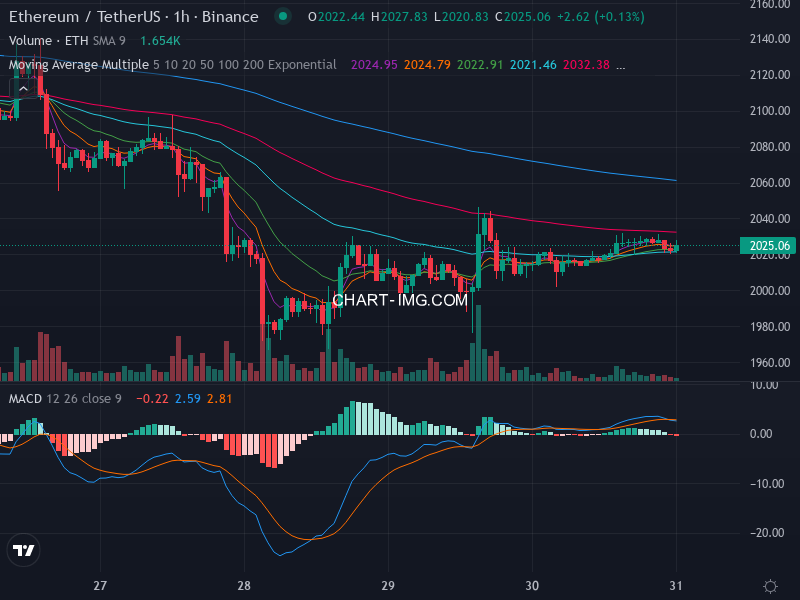
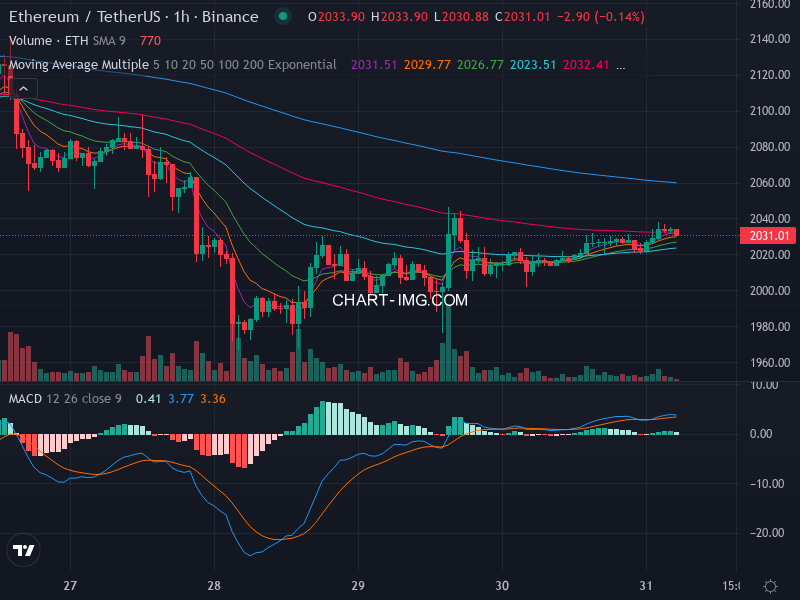
Update chart and timestamp

diff --git a/README.md b/README.md
@@ -5,7 +5,7 @@
 
 ## 最新技術分析圖表 (Latest Analysis)
 ![Latest Chart](latest_chart.png)  
-*Last Analysis: 2026-05-31 00:30:37 UTC*
+*Last Analysis: 2026-05-31 05:29:49 UTC*
 
 ## 主要功能
 - **自動繪圖**: 整合 `chart-img.com` API 繪製包含 EMA 與 MACD 指標的專業線圖（深色主題）。